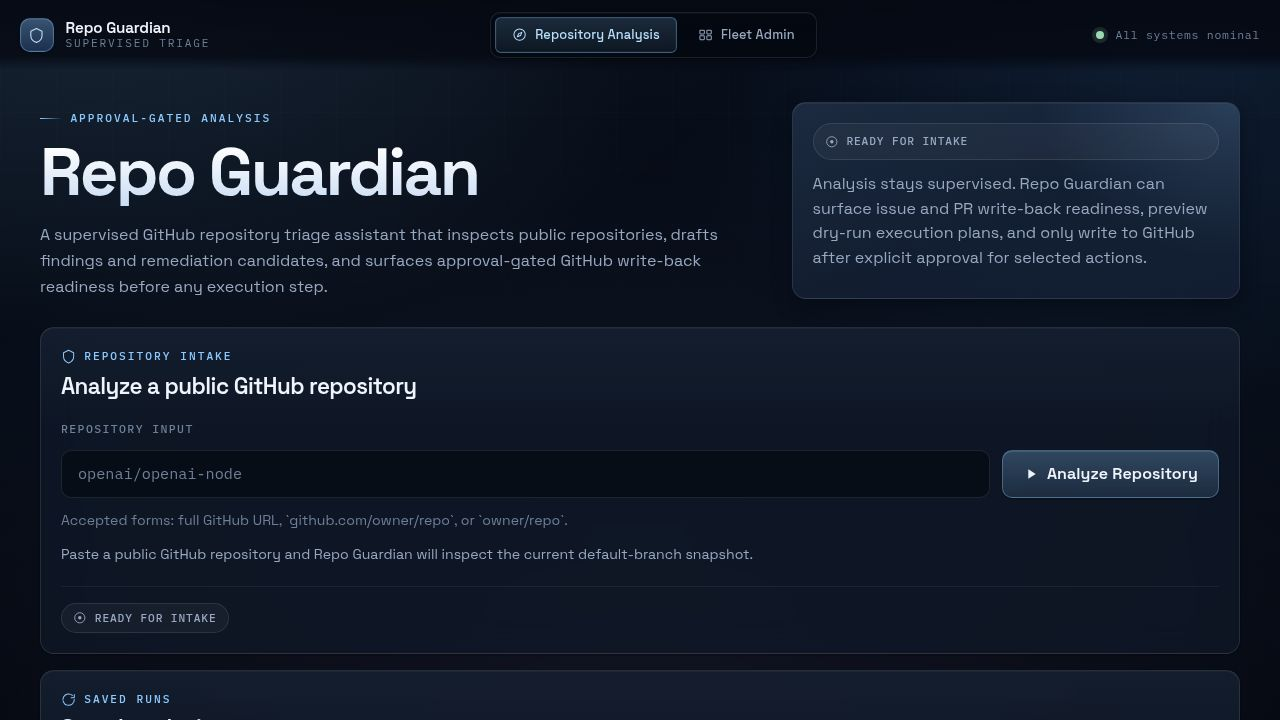
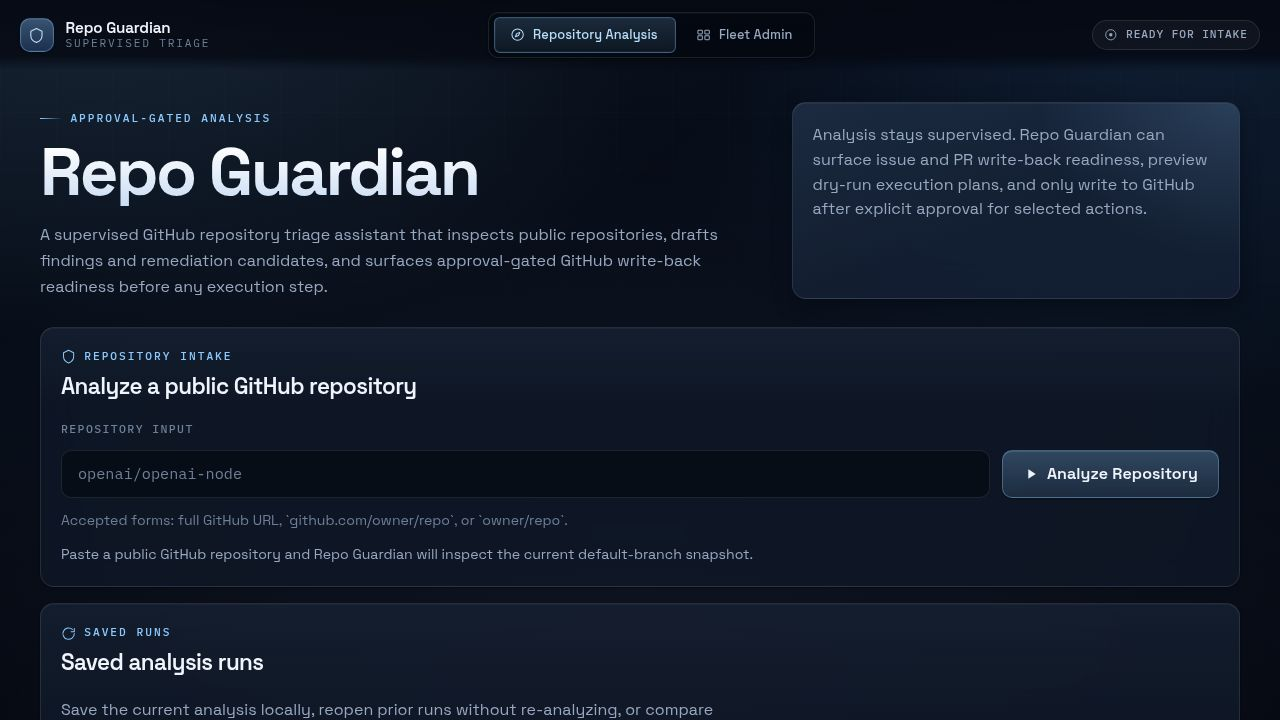
Task #6 — UI/UX overhaul (final round)
Original task: design tokens, primitives layer, motion, dark-mode-only
reskin of every panel without breaking 58 vitest tests / tsc.

Round 4 changes (addressing the third code-review pass — full
primitive rollout across remaining panels):

Primitives expansion
- Button: added `danger` variant (gradient + danger token) alongside
  primary/secondary/ghost; spinner reused.
- Badge: extended tones to active/muted/up-next/warning/success/danger/
  info/neutral, each with semantic icon mapping.
- SegmentedControl: now renders a sliding `<span>` indicator measured
  from the active button's bounding box; transition tokens with
  `prefers-reduced-motion` opt-out.
- Icon registry: added `bell` and `info` glyphs.

Shell upgrades (PageShell)
- Top bar accepts `workspaceName`, `notificationCount`,
  `onOpenNotifications`, `statusLabel`, `statusTone` props.
- Renders a workspace pill (fleet icon + label) when active.
- Renders a bell IconButton with absolute-positioned count badge.
- Replaces hardcoded "All systems nominal" with the dynamic status pill
  driven by App-derived state (or falls back to the legacy dot pill if
  no status is provided).

App.tsx wiring + dedup
- Removed duplicate StatusBadge from the Repository Intake panel footer
  and from both branches of the hero aside; status pill now lives only
  in the top bar (single intentional location).
- App passes the active workspace name, live execution-notification
[…]

diff --git a/artifacts/web/src/components/ui/SegmentedControl.tsx b/artifacts/web/src/components/ui/SegmentedControl.tsx
@@ -1,4 +1,11 @@
-import { useLayoutEffect, useRef, useState, type CSSProperties } from "react";
+import {
+  useCallback,
+  useEffect,
+  useLayoutEffect,
+  useRef,
+  useState,
+  type CSSProperties
+} from "react";
 import { Icon, type IconName } from "./Icon";
 
 export type SegmentedControlOption<T extends string> = {
@@ -30,7 +37,7 @@ export function SegmentedControl<T extends string>({
   const containerRef = useRef<HTMLDivElement | null>(null);
   const [indicator, setIndicator] = useState<IndicatorRect>(null);
 
-  useLayoutEffect(() => {
+  const measureIndicator = useCallback(() => {
     const container = containerRef.current;
     if (!container) {
       return;
@@ -48,7 +55,26 @@ export function SegmentedControl<T extends string>({
       left: buttonRect.left - containerRect.left,
       width: buttonRect.width
     });
-  }, [value, options]);
+  }, []);
+
+  useLayoutEffect(() => {
+    measureIndicator();
+  }, [measureIndicator, value, options]);
+
+  useEffect(() => {
+    const container = containerRef.current;
+    if (!container || typeof ResizeObserver === "undefined") {
+      if (typeof window !== "undefined") {
+        window.addEventListener("resize", measureIndicator);
+        return () => window.removeEventListener("resize", measureIndicator);
+      }
+      return;
+    }
+    const observer = new ResizeObserver(() => measureIndicator());
+    observer.observe(container);
+    container.querySelectorAll("button").forEach((button) => observer.observe(button));
+    return () => observer.disconnect();
+  }, [measureIndicator, options]);
 
   const composedClassName = ["app-mode-toggle", "segmented-control", className]
     .filter(Boolean)
